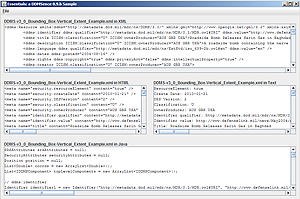
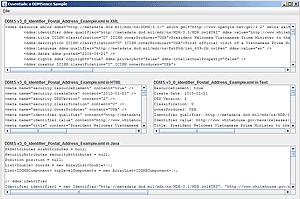
#11: Removing version numbers from samples and screenshots.

Changed region(s): [[0.0, 0.0, 0.99, 1.0], [0.93, 0.0, 1.0, 0.0603]]

diff --git a/src/samples/buri/ddmsence/samples/util/AbstractSample.java b/src/samples/buri/ddmsence/samples/util/AbstractSample.java
@@ -66,8 +66,7 @@ public abstract class AbstractSample implements ActionListener {
 	protected static final String FILE = "File";
 	protected static final String OPEN = "Open...";
 	protected static final String EXIT = "Exit";
-
-	protected static final String VERSION = PropertyReader.getProperty("version");
+	
 	protected static final String SAMPLE_DIR = PropertyReader.getProperty("sample.data");
 	
 	/**
@@ -106,7 +105,7 @@ public abstract class AbstractSample implements ActionListener {
 		JPanel contentPane = new JPanel(new BorderLayout());
 		if (!Util.isEmpty(getDefaultInstructions()))
 			contentPane.add(new JLabel(getDefaultInstructions(), JLabel.CENTER), BorderLayout.CENTER);
-		JFrame frame = new JFrame(title + ": a DDMSence " + VERSION + " Sample");
+		JFrame frame = new JFrame(title + ": a DDMSence Sample");
 		frame.setSize(size);
 		frame.setPreferredSize(size);
 		if (hasFileMenu)

diff --git a/src/samples/buri/ddmsence/samples/Escort.java b/src/samples/buri/ddmsence/samples/Escort.java
@@ -92,7 +92,6 @@ import buri.ddmsence.util.PropertyReader;
 public class Escort {
 
 	private static final BufferedReader INPUT_STREAM = new BufferedReader(new InputStreamReader(System.in));
-	private static final String VERSION = PropertyReader.getProperty("version");
 	private static final String SAMPLE_DIR = PropertyReader.getProperty("sample.data");
 	
 	/**
@@ -120,7 +119,7 @@ public class Escort {
 	 * The main execution loop of the program
 	 */
 	private void run() throws IOException {
-		println("Escort: a DDMSence " + VERSION + " Sample\n");
+		println("Escort: a DDMSence Sample\n");
 		
 		println("This program allows you to build a DDMS resource from scratch.");
 		println("If you do not know how to answer a question, a suggested valid answer is provided in square brackets.\nHowever, this is not a default value (hitting Enter will answer the question with an empty string).\n\n");
